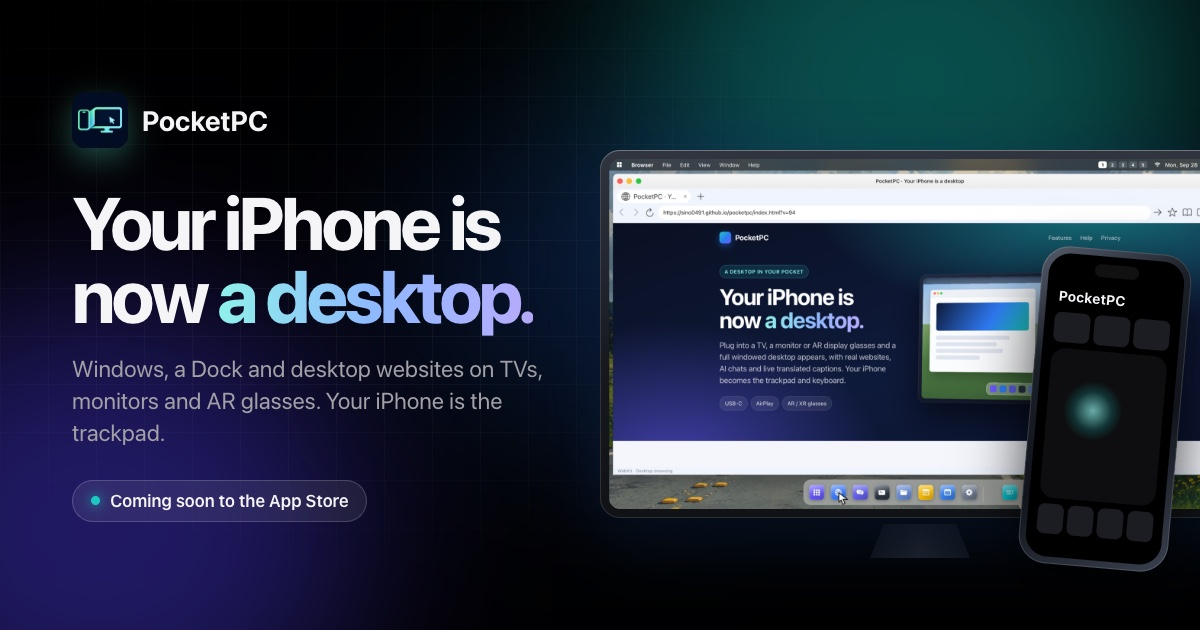
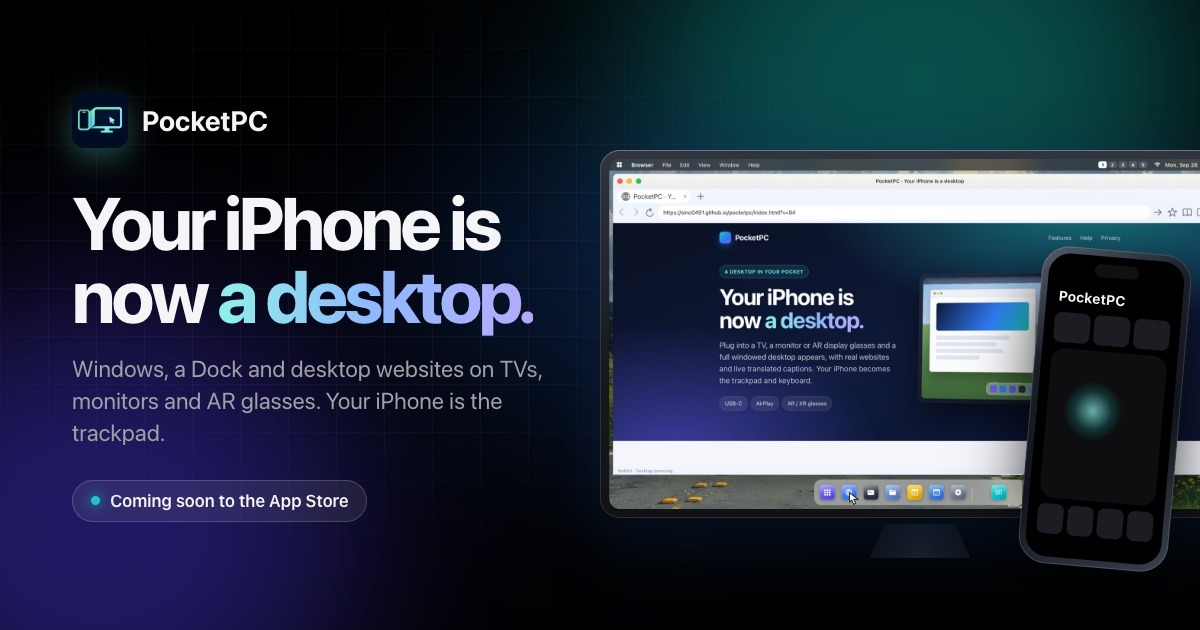
Remove remaining AI Chats traces from site styles and social image
- Social preview image: hero copy no longer mentions AI chats; AI Chats icon removed from the Dock
- Remove unused AI Chats CSS and chat icon symbol
- Rebalance the features grid after the AI Chats card removal

Claude-Session: https://claude.ai/code/session_01MPPaUCtQBVBDuJGWw5pNNX

Changed region(s): [[0.6475, 0.754, 0.8633, 0.8143], [0.5858, 0.573, 0.74, 0.6333]]

diff --git a/assets/site.css b/assets/site.css
@@ -349,26 +349,6 @@ section { position: relative; padding: 130px 0; }
 .wa-chart { height: 90px; border-radius: 10px; background: linear-gradient(180deg, rgba(28,200,193,.25), transparent), rgba(255,255,255,.04); position: relative; overflow: hidden; }
 .wa-chart svg { position: absolute; inset: 0; width: 100%; height: 100%; }
 
-/* AI Chats window */
-.cw { display: flex; height: 100%; }
-.cw-rail { width: 40px; display: flex; flex-direction: column; align-items: center; gap: 9px; padding-top: 10px; background: #eef0f4; border-right: 1px solid rgba(0,0,0,.06); }
-.cw-rail i { width: 22px; height: 22px; border-radius: 50%; display: block; }
-.cw-rail i.on { box-shadow: 0 0 0 2px #fff, 0 0 0 3.5px var(--indigo); }
-.cw-rail .add { background: transparent; border: 1.5px dashed #a9b1c1; color: #8b93a4; display: grid; place-items: center; font-size: 13px; font-style: normal; }
-.cw-panes { flex: 1; display: grid; grid-template-columns: 1fr 1fr; min-width: 0; }
-.cw-pane { position: relative; padding: 10px 9px; border-right: 1px solid rgba(0,0,0,.05); display: flex; flex-direction: column; gap: 7px; overflow: hidden; }
-.cw-pane:last-child { border-right: 0; }
-.cw-h { display: flex; align-items: center; gap: 6px; font-size: 9.5px; font-weight: 700; color: #4a5263; }
-.cw-h i { width: 12px; height: 12px; border-radius: 50%; }
-.bub { max-width: 88%; padding: 6px 8px; border-radius: 10px; font-size: 9px; line-height: 1.4; animation: bubIn .5s var(--spring) both; }
-.bub.me { align-self: flex-end; background: var(--blue); color: #fff; border-bottom-right-radius: 3px; }
-.bub.ai { align-self: flex-start; background: #eceff4; color: #2b3242; border-bottom-left-radius: 3px; width: 82%; }
-.bub.ai span { display: block; height: 5px; border-radius: 3px; background: #cdd3de; margin: 3px 0; }
-.dots { align-self: flex-start; display: flex; gap: 3px; padding: 7px 9px; border-radius: 10px; background: #eceff4; }
-.dots i { width: 4px; height: 4px; border-radius: 50%; background: #8a93a4; animation: dot 1.1s infinite; }
-.dots i:nth-child(2) { animation-delay: .15s; } .dots i:nth-child(3) { animation-delay: .3s; }
-@keyframes dot { 30% { transform: translateY(-3px); opacity: .5; } }
-@keyframes bubIn { from { transform: translateY(8px) scale(.9); opacity: 0; } }
 
 /* Terminal window */
 .win.dark { background: #0d1118; }
@@ -724,16 +704,6 @@ section { position: relative; padding: 130px 0; }
 .mini-dock i { width: 22px; height: 22px; border-radius: 6px; }
 .mini-dock .slot { width: 0; animation: slot 9s var(--ease-out) infinite; background: transparent; }
 @keyframes slot { 0%, 52% { width: 0; } 58%, 94% { width: 22px; } 100% { width: 0; } }
-
-/* Viz: chats */
-.v-chat { display: grid; grid-template-columns: repeat(3, 1fr); gap: 1px; background: var(--line); }
-.v-chat > div { background: #0a1020; padding: 16px 12px; display: flex; flex-direction: column; gap: 9px; }
-.v-chat .hd { display: flex; align-items: center; gap: 6px; font-size: 11px; color: var(--ink-2); }
-.v-chat .hd i { width: 12px; height: 12px; border-radius: 50%; }
-.cb { height: 22px; border-radius: 10px; opacity: 0; animation: cb 8s var(--spring) infinite; }
-.cb.me { align-self: flex-end; width: 70%; background: var(--blue); }
-.cb.ai { width: 86%; background: rgba(255,255,255,.1); height: 40px; }
-@keyframes cb { 0% { opacity: 0; transform: translateY(10px) scale(.9); } 8%, 90% { opacity: 1; transform: none; } 100% { opacity: 0; } }
 
 /* Viz: gestures */
 .v-gest { display: grid; place-items: start center; padding-top: 20px; background: #070b16; }

diff --git a/index.html b/index.html
@@ -35,7 +35,6 @@
   </defs>
   <symbol id="i-apps" viewBox="0 0 24 24"><g fill="currentColor" stroke="none"><circle cx="6" cy="6" r="1.9"/><circle cx="12" cy="6" r="1.9"/><circle cx="18" cy="6" r="1.9"/><circle cx="6" cy="12" r="1.9"/><circle cx="12" cy="12" r="1.9"/><circle cx="18" cy="12" r="1.9"/><circle cx="6" cy="18" r="1.9"/><circle cx="12" cy="18" r="1.9"/><circle cx="18" cy="18" r="1.9"/></g></symbol>
   <symbol id="i-globe" viewBox="0 0 24 24"><circle cx="12" cy="12" r="8.5"/><ellipse cx="12" cy="12" rx="3.8" ry="8.5"/><path d="M3.5 12h17M5 7.5h14M5 16.5h14"/></symbol>
-  <symbol id="i-chat" viewBox="0 0 24 24"><path d="M4 4.5h10a2 2 0 0 1 2 2v5a2 2 0 0 1-2 2H9l-4 3v-3H4a2 2 0 0 1-2-2v-5a2 2 0 0 1 2-2z"/><path d="M19 8.5h1a2 2 0 0 1 2 2v5a2 2 0 0 1-2 2h-1v3l-4-3h-3a2 2 0 0 1-1.7-1"/></symbol>
   <symbol id="i-term" viewBox="0 0 24 24"><rect x="3" y="4.5" width="18" height="15" rx="2.5"/><path d="M7 10l3 2.5L7 15M12.5 15.5H17"/></symbol>
   <symbol id="i-folder" viewBox="0 0 24 24"><path d="M3 7.5a2 2 0 0 1 2-2h4l2 2.2h8a2 2 0 0 1 2 2V17a2 2 0 0 1-2 2H5a2 2 0 0 1-2-2z"/></symbol>
   <symbol id="i-gear" viewBox="0 0 24 24"><circle cx="12" cy="12" r="7" stroke-width="3.2" stroke-dasharray="2.75 2.75" stroke-linecap="butt"/><circle cx="12" cy="12" r="3.6"/></symbol>
@@ -99,8 +98,6 @@
       <a class="btn ghost" href="#features">Explore features<svg class="i"><use href="#i-arrow"/></svg></a>
     </div>
   </div>
-
-
 
   <div class="stage" id="demo">
     <div class="stage-glow" aria-hidden="true"></div>
@@ -278,7 +275,7 @@
         <p>From 720p glasses to 4K TVs, text stays sharp.</p>
       </article>
 
-      <article class="card c6" data-reveal data-tilt>
+      <article class="card c8" data-reveal data-tilt>
         <div class="viz v-br" data-anim aria-hidden="true">
           <div class="mini-br">
             <div class="mini-tabs"><i></i><i></i><i></i></div>
@@ -297,8 +294,6 @@
         </ul>
       </article>
 
-
-
       <article class="card c4" data-reveal data-tilt>
         <div class="viz v-gest" id="vgest" data-g="move" data-anim aria-hidden="true">
           <div class="g-pad"><i class="fdot f1"></i><i class="fdot f2"></i></div>
@@ -310,7 +305,7 @@
         <p>Tap to click, scroll with two fingers, and two-finger click for copy and paste. Type with the iPhone keyboard.</p>
       </article>
 
-      <article class="card c4" data-reveal style="--d:.08s" data-tilt>
+      <article class="card c6" data-reveal style="--d:.08s" data-tilt>
         <div class="viz v-keys" id="vkeys" data-anim aria-hidden="true">
           <div class="keys" id="keysRow"><kbd>⌘</kbd><kbd>1–5</kbd></div>
           <div class="keys-lbl" id="keysLbl">Switch workspaces</div>
@@ -320,7 +315,7 @@
         <p>Pair a Bluetooth keyboard and mouse for shortcuts to apps, windows and workspaces.</p>
       </article>
 
-      <article class="card c4" data-reveal style="--d:.16s" data-tilt>
+      <article class="card c6" data-reveal style="--d:.16s" data-tilt>
         <div class="viz v-video" data-anim aria-hidden="true">
           <div class="vv-tv"><div class="vv-img"></div><div class="vv-bar"><i></i></div></div>
           <div class="vv-phone"><svg class="i"><use href="#i-lock"/></svg></div>
